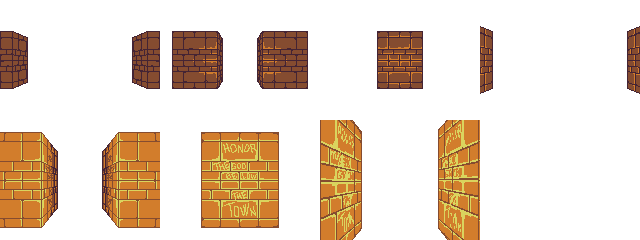
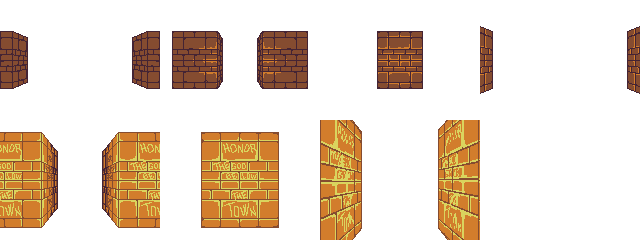
Fix hidden CTRL+G hint in a book in the Mausoleum - close #21

Changed region(s): [[0.1875, 0.5833, 0.25, 0.9042], [0.0, 0.5833, 0.0312, 0.9042]]

diff --git a/pdf_game/render.py b/pdf_game/render.py
@@ -107,6 +107,7 @@ def render_page(pdf, game_view, render_victory):
                                page_id=next_game_view.page_id)
             elif action_name == 'CLOSING-BOOK':
                 assert game_state.book
+                bitfont_set_color_red(False)
                 render_book(pdf, game_state.book, next_game_view.page_id, game_state.treasure_id)
             elif action_name in CLICK_ZONES:
                 click_zone = CLICK_ZONES[action_name]
@@ -316,9 +317,9 @@ def render_book(pdf, book, page_id, treasure_id):
             x, y = 80, 60
             with pdf.rect_clip(x=x, y=y, w=45, h=47):
                 pdf.image('assets/black_bird.png', x=x - book.bird_index*45, y=y, link=link, alt_text='NEXT')
-        if book.extra_render:
-            book.extra_render(pdf)
     bitfont_render(pdf, book.text, 80, y, Justify.CENTER, page_id=page_id)
+    if book.extra_render:
+        book.extra_render(pdf)
     if book.next:
         white_arrow_render(pdf, 'NEXT', x=120, y=100, page_id=page_id)
 

diff --git a/pdf_game/deadends.py b/pdf_game/deadends.py
@@ -8,6 +8,7 @@ from .optional_deps import tqdm
 
 
 def detect_deadends(game_views):
+    print()
     print('Starting dead-end detecter')
     print('- listing all end-game leaf states')
     endgame_gvs = set(gv for gv in game_views if gv.state and gv.state.milestone >= 2)

diff --git a/CHANGELOG.md b/CHANGELOG.md
@@ -9,7 +9,8 @@ and this project adheres to [Semantic Versioning](http://semver.org/).
 - display final end cut-scene - _cf._ [PR #15](https://github.com/Lucas-C/undying-dusk/pull/15)
 - more than 45 typos, thanks to @Phoenyx65535 - _cf._ [issue #20](https://github.com/Lucas-C/undying-dusk/issues/20)
 - broken path to abyss secret in a specific case - _cf._ [PR #24](https://github.com/Lucas-C/undying-dusk/pull/24)
-- fixing image assets for some tiles - _cf._ [issue #16](https://github.com/Lucas-C/undying-dusk/issues/16)
+- missing image assets for some tiles - _cf._ [issue #16](https://github.com/Lucas-C/undying-dusk/issues/16)
+- hidden `CTRL G` hint in a book in the Mausoleum - _cf._ [issue #21](https://github.com/Lucas-C/undying-dusk/issues/21)
 - overlapping link to [JourneyToTheEastRocks.ogg](https://chezsoi.org/lucas/undying-dusk/music/AlexandrZhelanov-JourneyToTheEastRocks.ogg) - _cf._ [issue #17](https://github.com/Lucas-C/undying-dusk/issues/17)
 
 ## [1.0.2] - 2021-05-12
